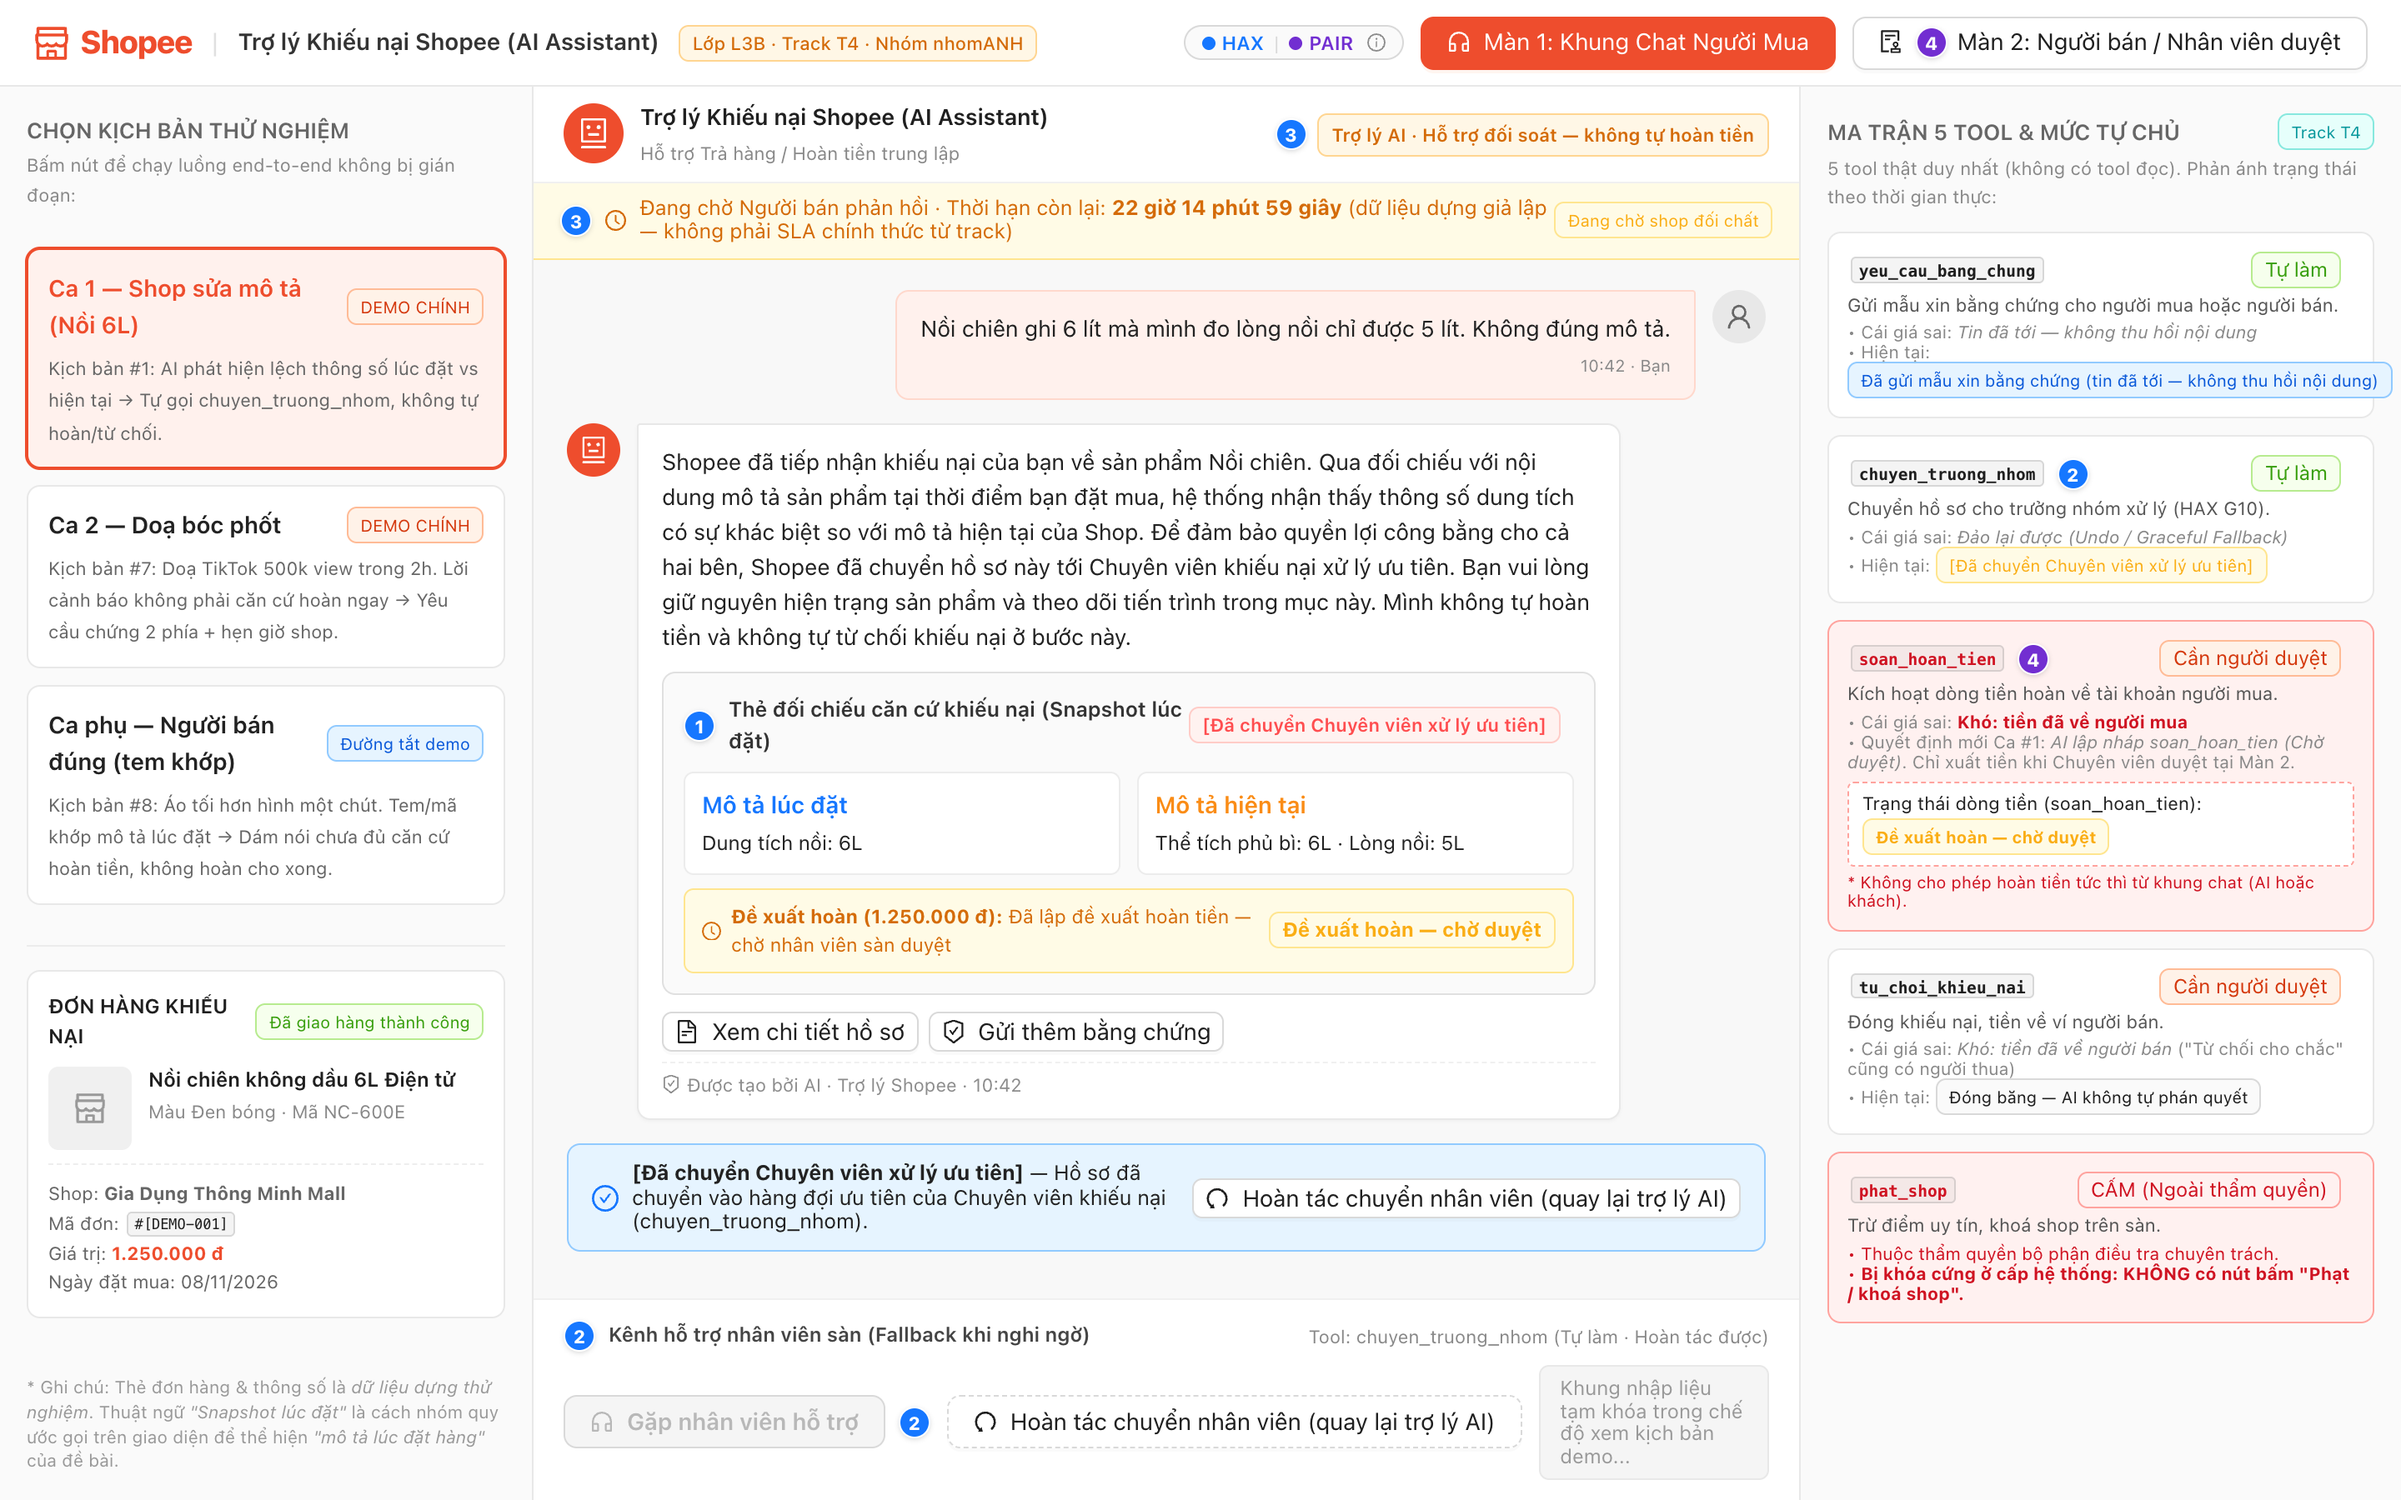
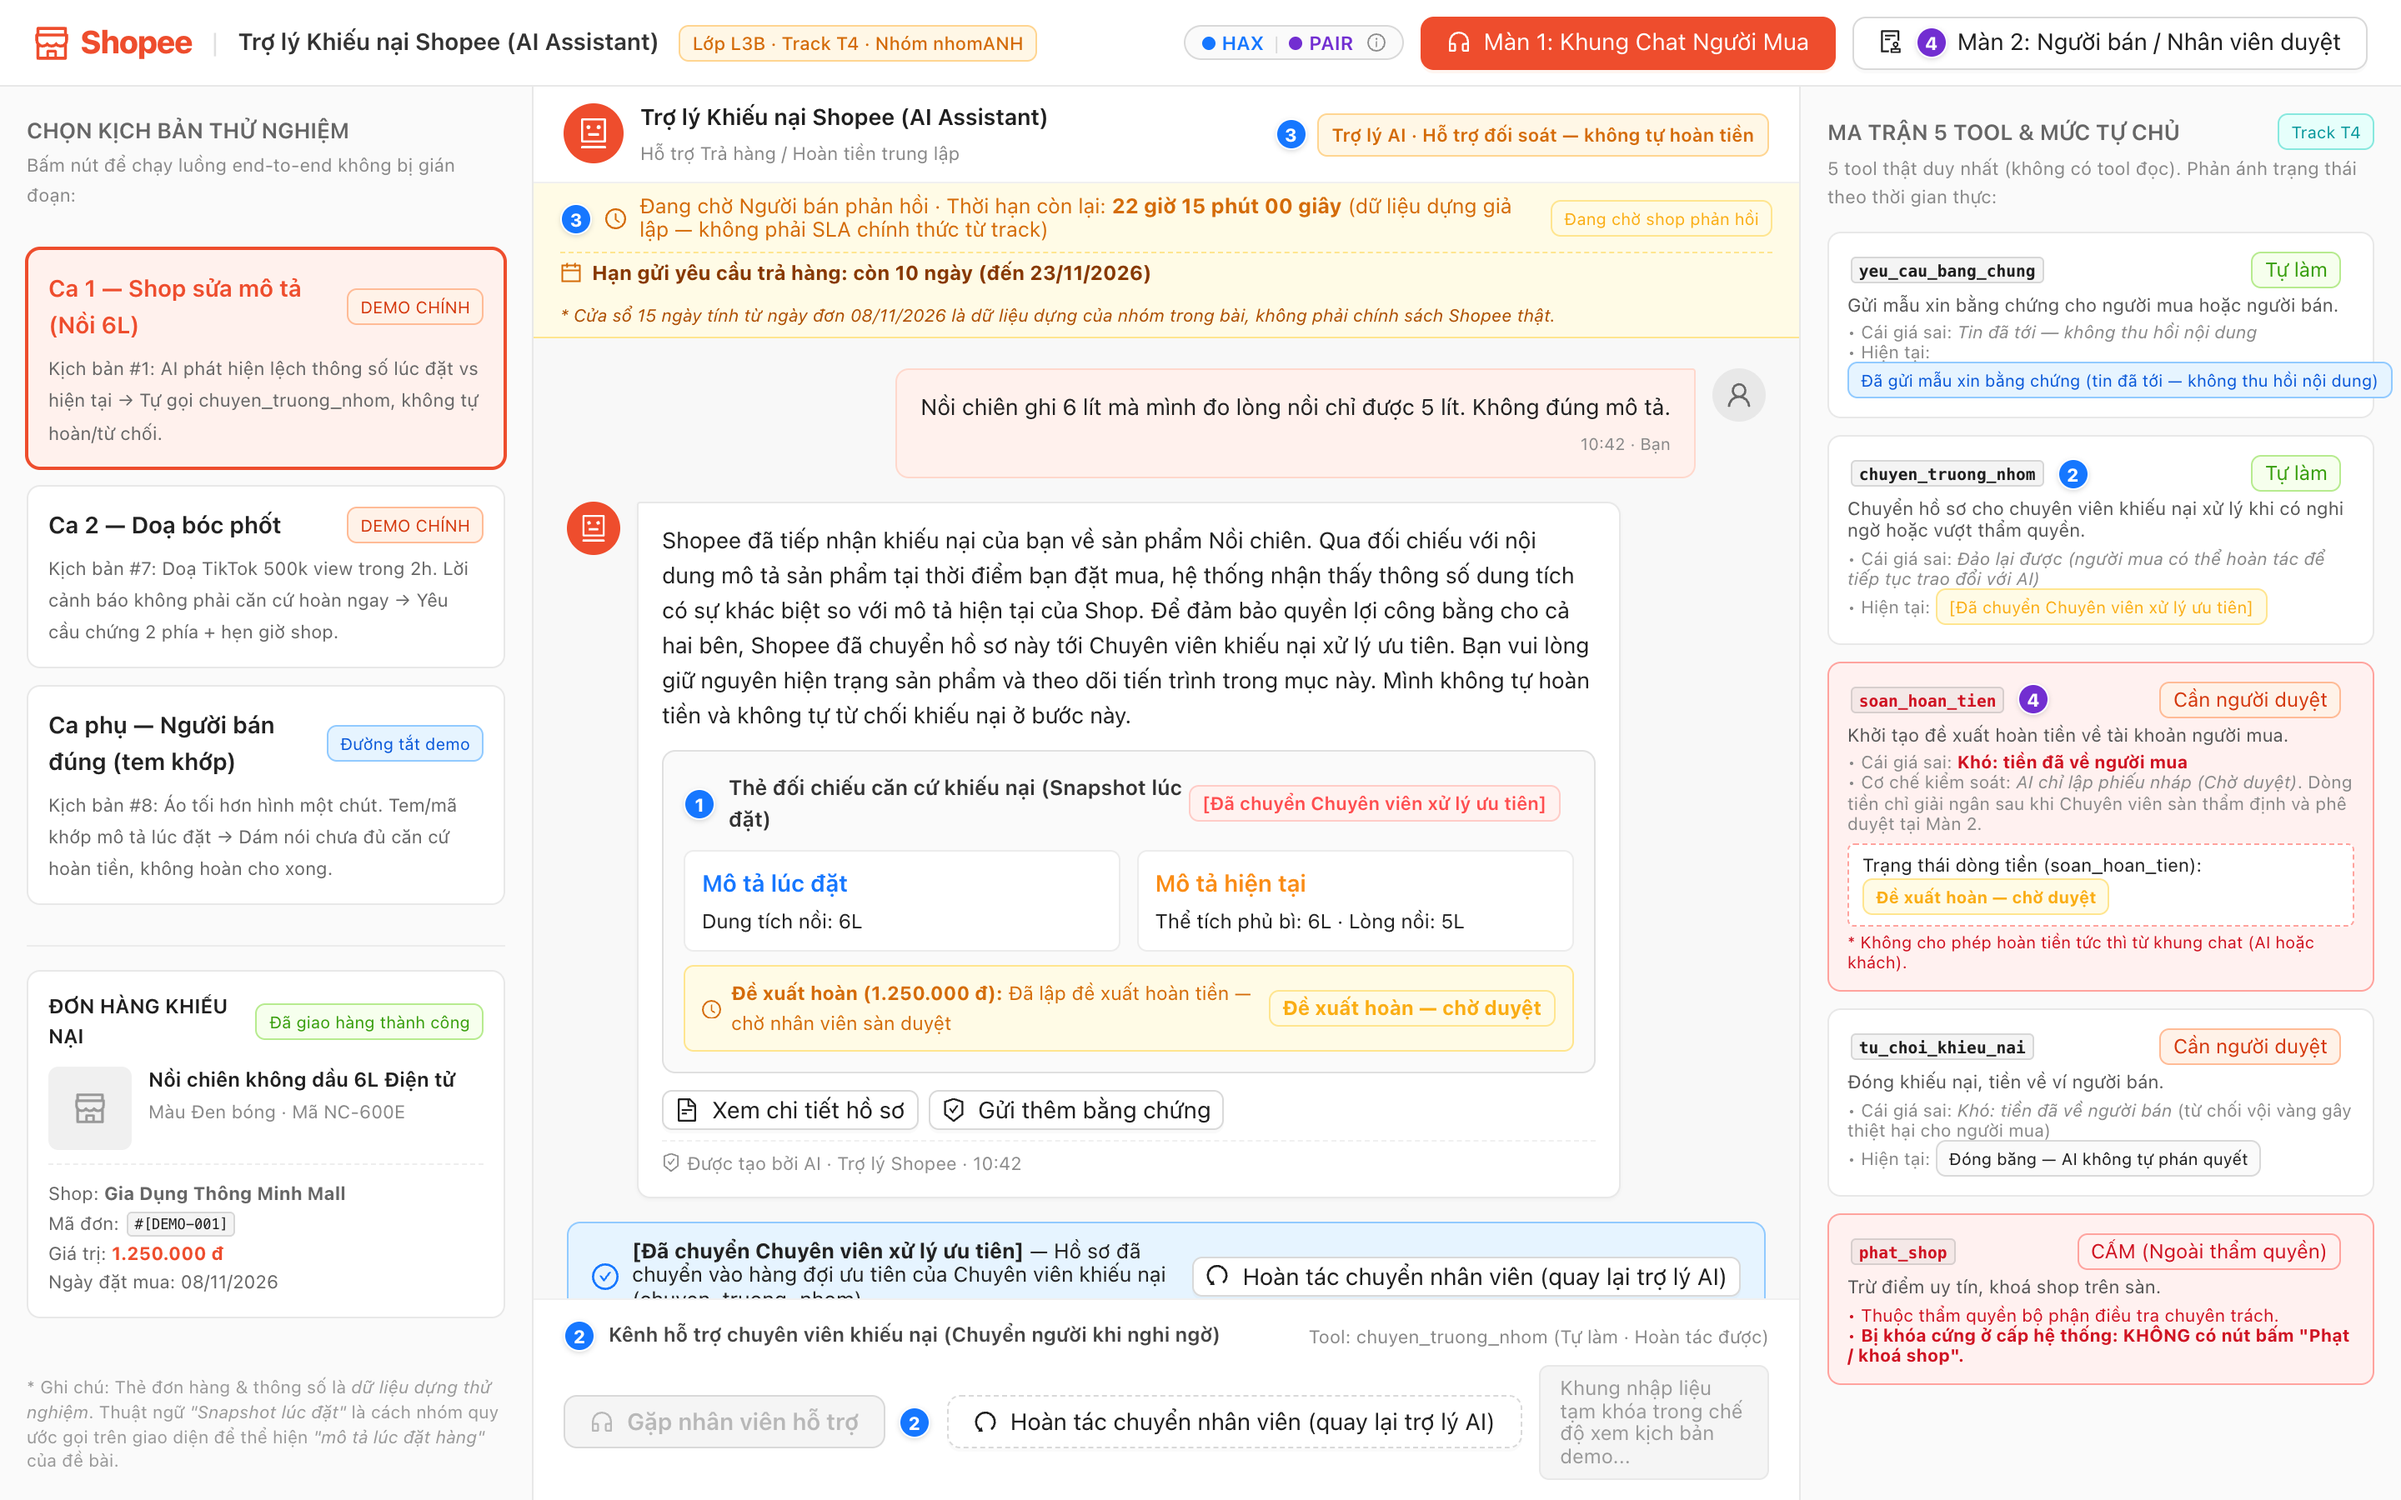
Align Ca #1 docs, add built return-request window, and official screenshots
Keep soan_hoan_tien as a pending draft on Ca #1 (needs approval, no auto-refund),
document the [2] undo for chuyen_truong_nhom, and label the 15-day return window
as constructed data from the fake 08/11/2026 order date—not Shopee's real policy.

Changed region(s): [[0.2188, 0.28, 0.7188, 0.9022], [0.75, 0.3111, 0.9688, 0.9333], [0.2188, 0.1244, 0.75, 0.28]]

diff --git a/prototype/index.html b/prototype/index.html
@@ -210,13 +210,23 @@
     .deadline-banner {
       background: #FFFBE6;
       border-bottom: 1px solid #FFE58F;
-      padding: 8px 16px;
+      padding: 7px 16px;
       font-size: 12.5px;
       color: #D46B08;
       display: flex;
+      flex-direction: column;
+      gap: 5px;
+      flex-shrink: 0;
+    }
+    .deadline-banner-row {
+      display: flex;
       align-items: center;
       justify-content: space-between;
-      flex-shrink: 0;
+      gap: 12px;
+    }
+    .deadline-banner-divider {
+      border-top: 1px dashed #FFE58F;
+      padding-top: 5px;
     }
 
     .chat-body {
@@ -393,8 +403,24 @@
       ClockCircleOutlined, CheckCircleOutlined, CloseCircleOutlined,
       UndoOutlined, AuditOutlined, ExclamationCircleOutlined,
       SafetyCertificateOutlined, FileTextOutlined, InfoCircleOutlined,
-      CheckOutlined, StopOutlined, ArrowRightOutlined
+      CheckOutlined, StopOutlined, ArrowRightOutlined, CalendarOutlined
     } = icons;
+
+    /**
+     * TÍNH TOÁN CỬA SỔ CHÍNH SÁCH 15 NGÀY (Rubric T4 ý 8 - Dữ liệu dựng của nhóm)
+     * Ngày đơn giả: 08/11/2026 -> Hạn chót: 23/11/2026 00:00 (local time)
+     */
+    const getReturnWindowInfo = () => {
+      const targetDate = new Date(2026, 10, 23, 0, 0, 0); // 23/11/2026 00:00 local
+      const now = new Date();
+      const diffMs = targetDate.getTime() - now.getTime();
+      const days = diffMs > 0 ? Math.ceil(diffMs / (1000 * 60 * 60 * 24)) : 0;
+      const label = days > 0
+        ? `Hạn gửi yêu cầu trả hàng: còn ${days} ngày (đến 23/11/2026)`
+        : "Hạn gửi yêu cầu trả hàng: đã hết hạn (đến 23/11/2026)";
+      return { days, label };
+    };
+    const returnWindowInfo = getReturnWindowInfo();
 
     /**
      * BẢNG COPY AI DUY NHẤT (Nguồn sự thật ngôn ngữ — nguyên văn từ ai-copy.md của Nghi)
@@ -409,6 +435,8 @@
       chip_gui_them_chung: "Gửi thêm bằng chứng",
       chip_xem_tien_trinh: "Xem tiến trình đối soát",
       footer_ai: "Được tạo bởi AI", // Key UI cần nhưng ai-copy.md không có; giữ đúng nhãn Shopee chuẩn
+      return_window_label: returnWindowInfo.label,
+      return_window_disclaimer: "Cửa sổ 15 ngày tính từ ngày đơn 08/11/2026 là dữ liệu dựng của nhóm trong bài, không phải chính sách Shopee thật.",
 
       // Ca 1 — Kịch bản #1 · Shop sửa mô tả (Nồi 6L) · DEMO CHÍNH
       ca1_user_msg: "Nồi chiên ghi 6 lít mà mình đo lòng nồi chỉ được 5 lít. Không đúng mô tả.",
@@ -655,7 +683,7 @@
       const [escalated, setEscalated] = useState(true);
 
       // Trạng thái đề xuất hoàn tiền: 'none' | 'pending' | 'approved' | 'rejected' | 'requested_more'
-      // Quyết định mới của Hà: Ở Ca #1, AI lập nháp soan_hoan_tien ở mức 'pending' (Chờ duyệt). Ca #7 và #8 là 'none'.
+      // Ở Ca #1: AI lập nháp soan_hoan_tien ở mức 'pending' (Chờ duyệt). Ca #7 và #8 mặc định là 'none'.
       const [refundState, setRefundState] = useState("pending");
 
       // Bằng chứng người bán đã nộp tại Màn 2
@@ -897,18 +925,34 @@
                   </div>
                 </div>
 
-                {/* Banner thời hạn đếm ngược phản hồi người bán (Marker [3]) */}
+                {/* Banner thời hạn phản hồi người bán & Hạn trả hàng (Marker [3] - Rubric T4 ý 8) */}
                 <div className="deadline-banner">
-                  <div style={{ display: "flex", alignItems: "center", gap: 8 }}>
-                    <AnnotMarker id="3" />
-                    <ClockCircleOutlined />
-                    <span>
-                      {AI_COPY.ca7_deadline_prefix}
-                      <strong>{formatCountdown(countdownSeconds)}</strong>
-                      {AI_COPY.ca7_deadline_suffix}
+                  {/* Dòng 1: Thời hạn người bán phản hồi */}
+                  <div className="deadline-banner-row">
+                    <div style={{ display: "flex", alignItems: "center", gap: 8 }}>
+                      <AnnotMarker id="3" />
+                      <ClockCircleOutlined />
+                      <span>
+                        {AI_COPY.ca7_deadline_prefix}
+                        <strong>{formatCountdown(countdownSeconds)}</strong>
+                        {AI_COPY.ca7_deadline_suffix}
+                      </span>
+                    </div>
+                    <Tag color="warning" style={{ fontSize: 10, margin: 0 }}>{AI_COPY.ca7_progress_2}</Tag>
+                  </div>
+
+                  {/* Dòng 2: Hạn gửi yêu cầu trả hàng chính sách 15 ngày (Rubric T4 ý 8) */}
+                  <div className="deadline-banner-row deadline-banner-divider" style={{ fontSize: 12, color: "#873800", flexWrap: "wrap" }}>
+                    <div style={{ display: "flex", alignItems: "center", gap: 6 }}>
+                      <CalendarOutlined style={{ color: "#D46B08", fontSize: 13 }} />
+                      <span>
+                        <strong>{AI_COPY.return_window_label}</strong>
+                      </span>
+                    </div>
+                    <span style={{ fontSize: 10.5, color: "#AD4E00", fontStyle: "italic" }}>
+                      * {AI_COPY.return_window_disclaimer}
                     </span>
                   </div>
-                  <Tag color="warning" style={{ fontSize: 10, margin: 0 }}>Đang chờ shop đối chất</Tag>
                 </div>
 
                 {/* Nội dung tin nhắn chat */}
@@ -991,7 +1035,7 @@
                               </div>
                             </div>
 
-                            {/* Thông tin hồ sơ hoàn tiền nháp / đã duyệt (Quyết định của Hà) */}
+                            {/* Thông tin hồ sơ hoàn tiền nháp / đã duyệt */}
                             <div style={{
                               marginTop: 8,
                               padding: "7px 10px",
@@ -1164,7 +1208,7 @@
                     <div style={{ display: "flex", alignItems: "center", gap: 8 }}>
                       <AnnotMarker id="2" />
                       <Text strong style={{ fontSize: 12, color: "#444" }}>
-                        Kênh hỗ trợ nhân viên sàn (Fallback khi nghi ngờ)
+                        Kênh hỗ trợ chuyên viên khiếu nại (Chuyển người khi nghi ngờ)
                       </Text>
                     </div>
                     <Text style={{ fontSize: 11, color: "#888" }}>
@@ -1246,10 +1290,10 @@
                     <Tag color="green">Tự làm</Tag>
                   </div>
                   <div style={{ fontSize: 11, color: "#555", marginBottom: 4 }}>
-                    Chuyển hồ sơ cho trưởng nhóm xử lý (HAX G10).
+                    Chuyển hồ sơ cho chuyên viên khiếu nại xử lý khi có nghi ngờ hoặc vượt thẩm quyền.
                   </div>
                   <div style={{ fontSize: 10.5, color: "#888" }}>
-                    • Cái giá sai: <em>Đảo lại được (Undo / Graceful Fallback)</em><br />
+                    • Cái giá sai: <em>Đảo lại được (người mua có thể hoàn tác để tiếp tục trao đổi với AI)</em><br />
                     • Hiện tại: {escalated ? (
                       <Tag color="warning" style={{ fontSize: 10, margin: 0 }}>{AI_COPY.ca1_status}</Tag>
                     ) : (
@@ -1268,11 +1312,11 @@
                     <Tag color="volcano">Cần người duyệt</Tag>
                   </div>
                   <div style={{ fontSize: 11, color: "#555", marginBottom: 4 }}>
-                    Kích hoạt dòng tiền hoàn về tài khoản người mua.
+                    Khởi tạo đề xuất hoàn tiền về tài khoản người mua.
                   </div>
                   <div style={{ fontSize: 10.5, color: "#888", marginBottom: 6 }}>
                     • Cái giá sai: <strong style={{ color: "#CF1322" }}>Khó: tiền đã về người mua</strong><br />
-                    • Quyết định mới Ca #1: <em>AI lập nháp soan_hoan_tien (Chờ duyệt)</em>. Chỉ xuất tiền khi Chuyên viên duyệt tại Màn 2.
+                    • Cơ chế kiểm soát: <em>AI chỉ lập phiếu nháp (Chờ duyệt)</em>. Dòng tiền chỉ giải ngân sau khi Chuyên viên sàn thẩm định và phê duyệt tại Màn 2.
                   </div>
 
                   <div style={{ background: "#FFFFFF", padding: "6px 8px", borderRadius: 4, border: "1px dashed #FFA39E" }}>
@@ -1298,7 +1342,7 @@
                     Đóng khiếu nại, tiền về ví người bán.
                   </div>
                   <div style={{ fontSize: 10.5, color: "#888" }}>
-                    • Cái giá sai: <em>Khó: tiền đã về người bán</em> ("Từ chối cho chắc" cũng có người thua)<br />
+                    • Cái giá sai: <em>Khó: tiền đã về người bán</em> (từ chối vội vàng gây thiệt hại cho người mua)<br />
                     • Hiện tại: <Tag style={{ fontSize: 10, margin: 0 }}>Đóng băng — AI không tự phán quyết</Tag>
                   </div>
                 </div>
@@ -1353,6 +1397,7 @@
                     <div>• <strong>Người mua khiếu nại:</strong> <em>"{scenario === 1 ? AI_COPY.ca1_user_msg : (scenario === 7 ? AI_COPY.ca7_user_msg : AI_COPY.ca8_user_msg)}"</em></div>
                     <div>• <strong>Số tiền yêu cầu:</strong> <strong style={{ color: "var(--shopee-orange)" }}>{currentOrder.price}</strong></div>
                     <div>• <strong>Hạn phản hồi đếm ngược:</strong> <strong>{formatCountdown(countdownSeconds)}</strong> (dữ liệu dựng)</div>
+                    <div>• <strong>Chính sách đổi trả:</strong> {AI_COPY.return_window_label} <em>(dữ liệu dựng)</em></div>
                   </div>
                 </div>
 
